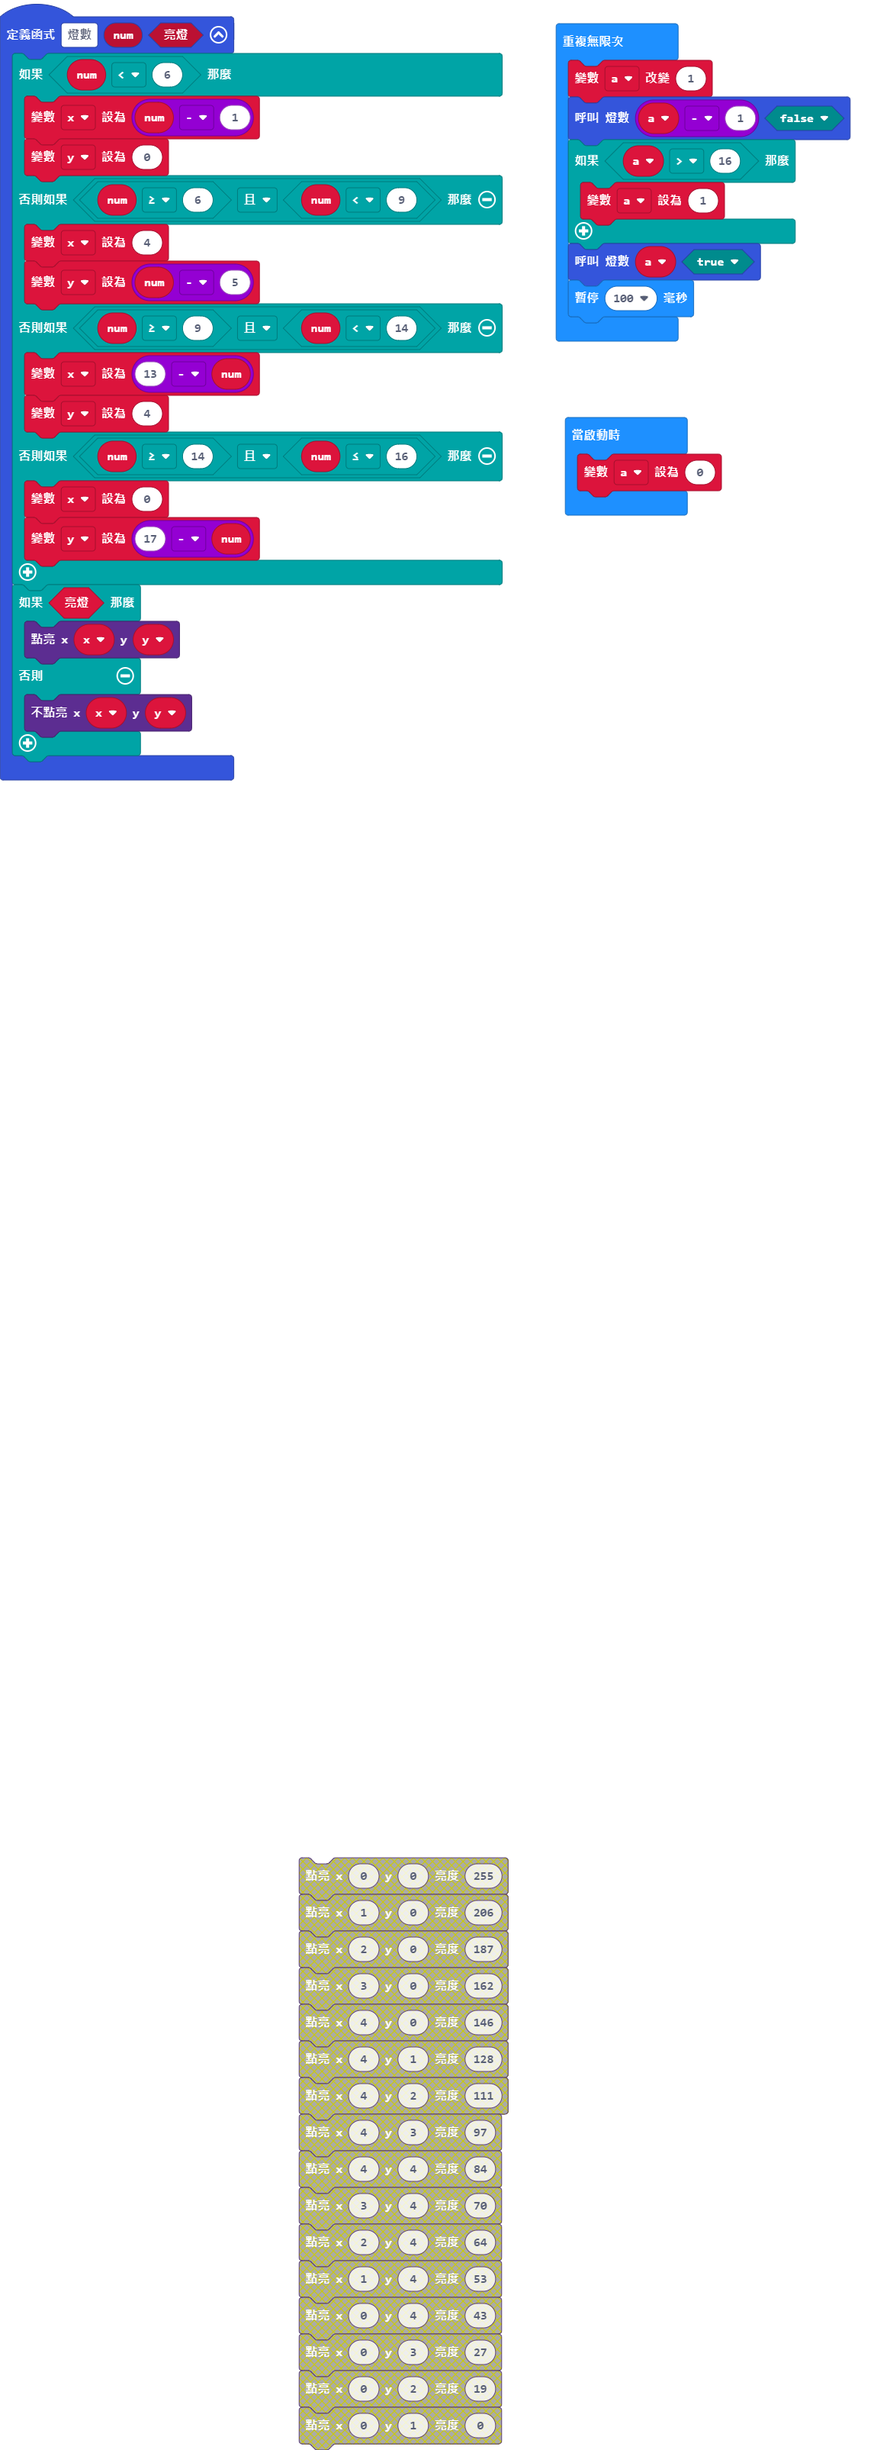
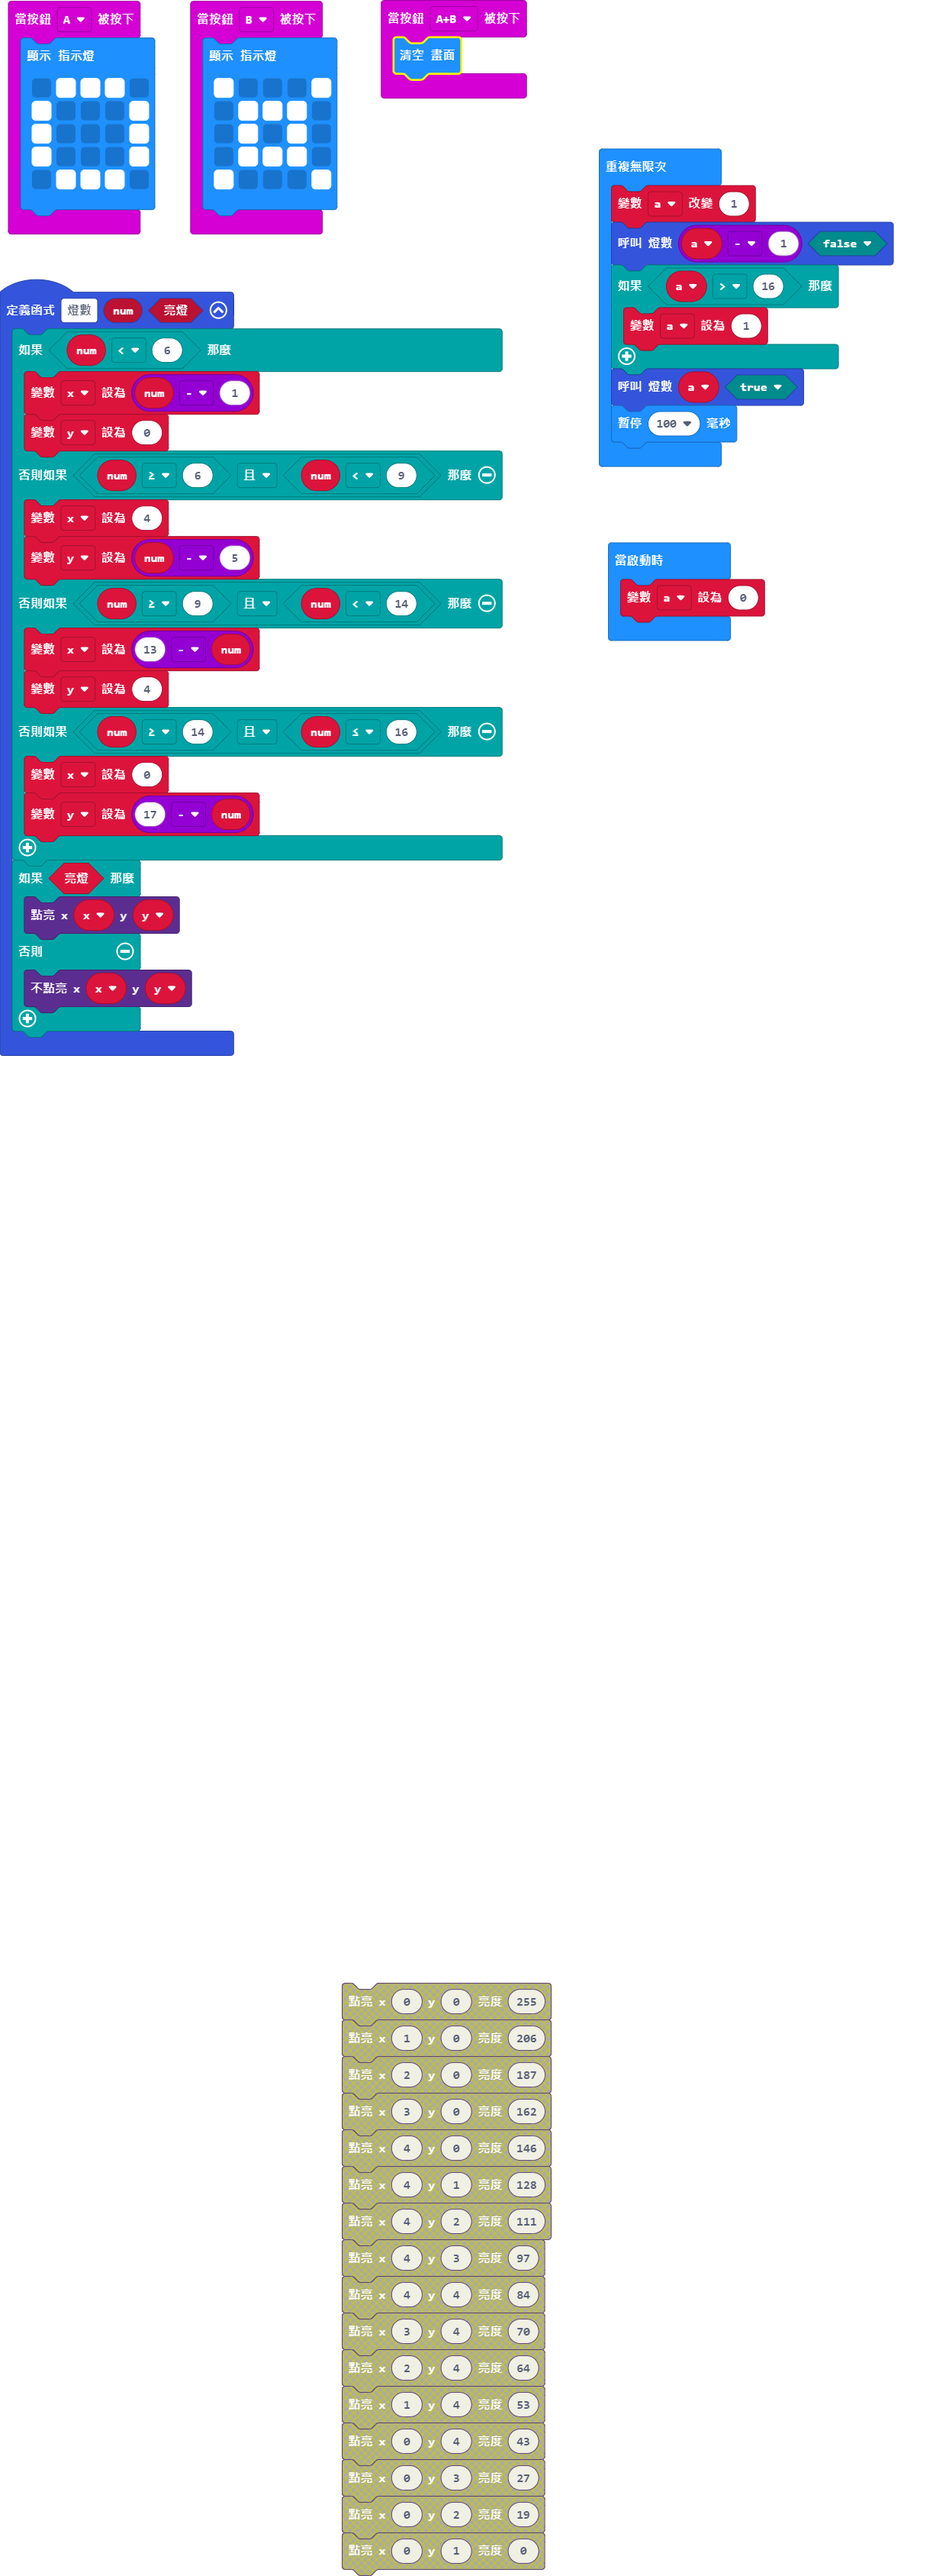
更新 pxt.json, main.ts, main.blocks

Changed region(s): [[0.0, 0.0, 0.5861, 0.4361], [0.3085, 0.7477, 0.617, 1.0], [0.617, 0.0, 0.9563, 0.2492]]

diff --git a/main.ts b/main.ts
@@ -18,6 +18,27 @@ function 燈數 (num: number, 亮燈: boolean) {
         led.unplot(x, y)
     }
 }
+input.onButtonPressed(Button.A, function () {
+    basic.showLeds(`
+        . # # # .
+        # . . . #
+        # . . . #
+        # . . . #
+        . # # # .
+        `)
+})
+input.onButtonPressed(Button.AB, function () {
+    basic.clearScreen()
+})
+input.onButtonPressed(Button.B, function () {
+    basic.showLeds(`
+        # . . . #
+        . # # # .
+        . # . # .
+        . # # # .
+        # . . . #
+        `)
+})
 let y = 0
 let x = 0
 let a = 0
